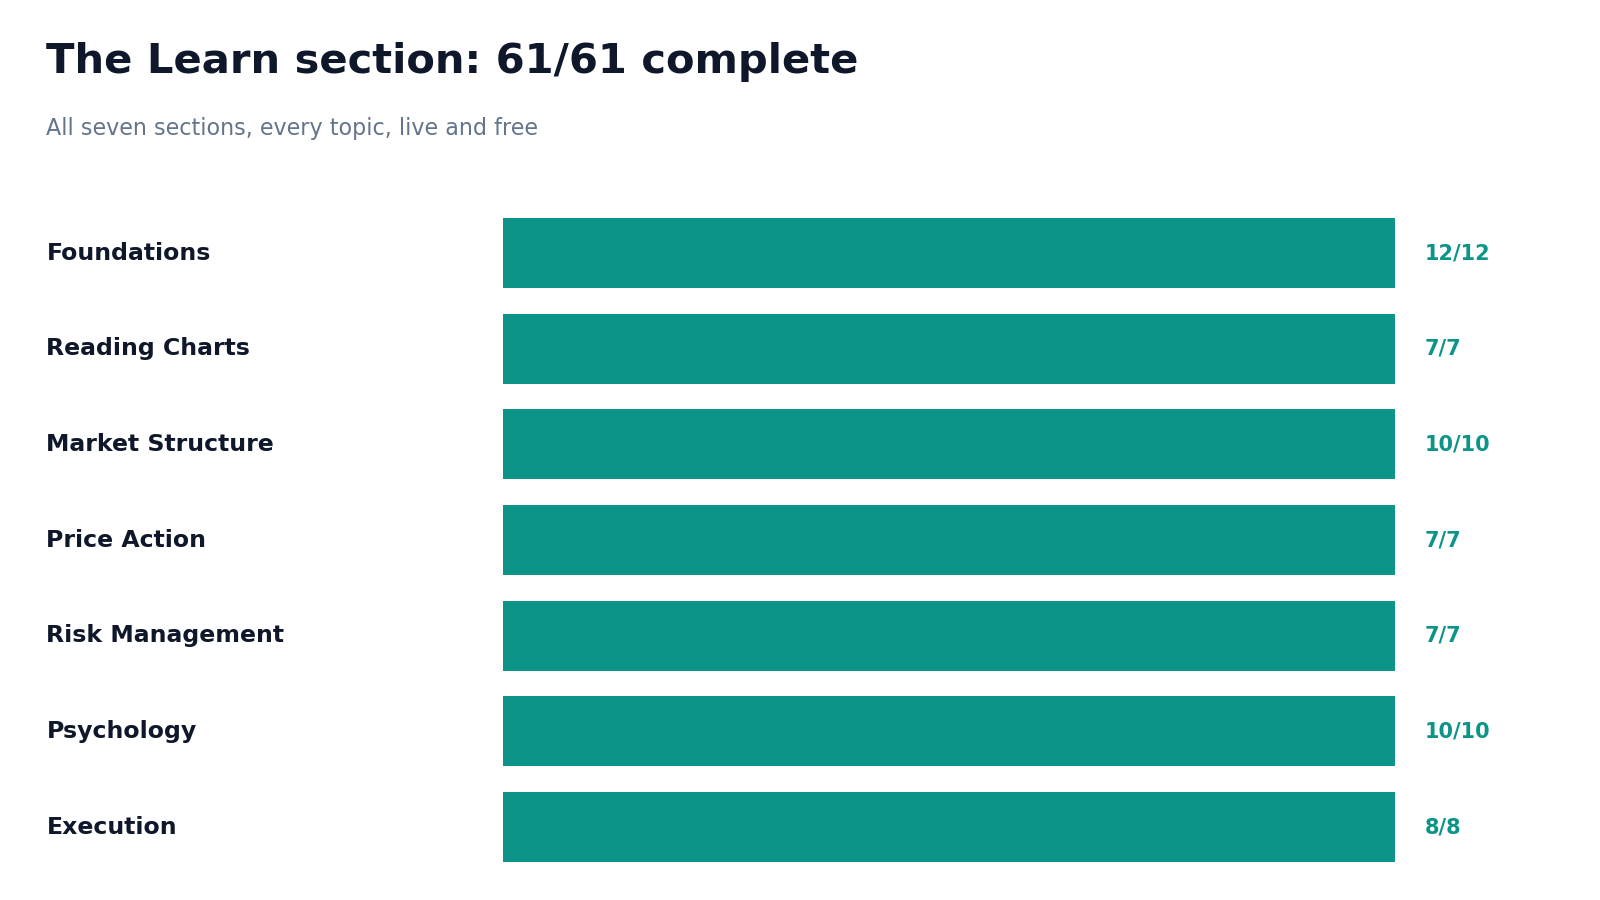
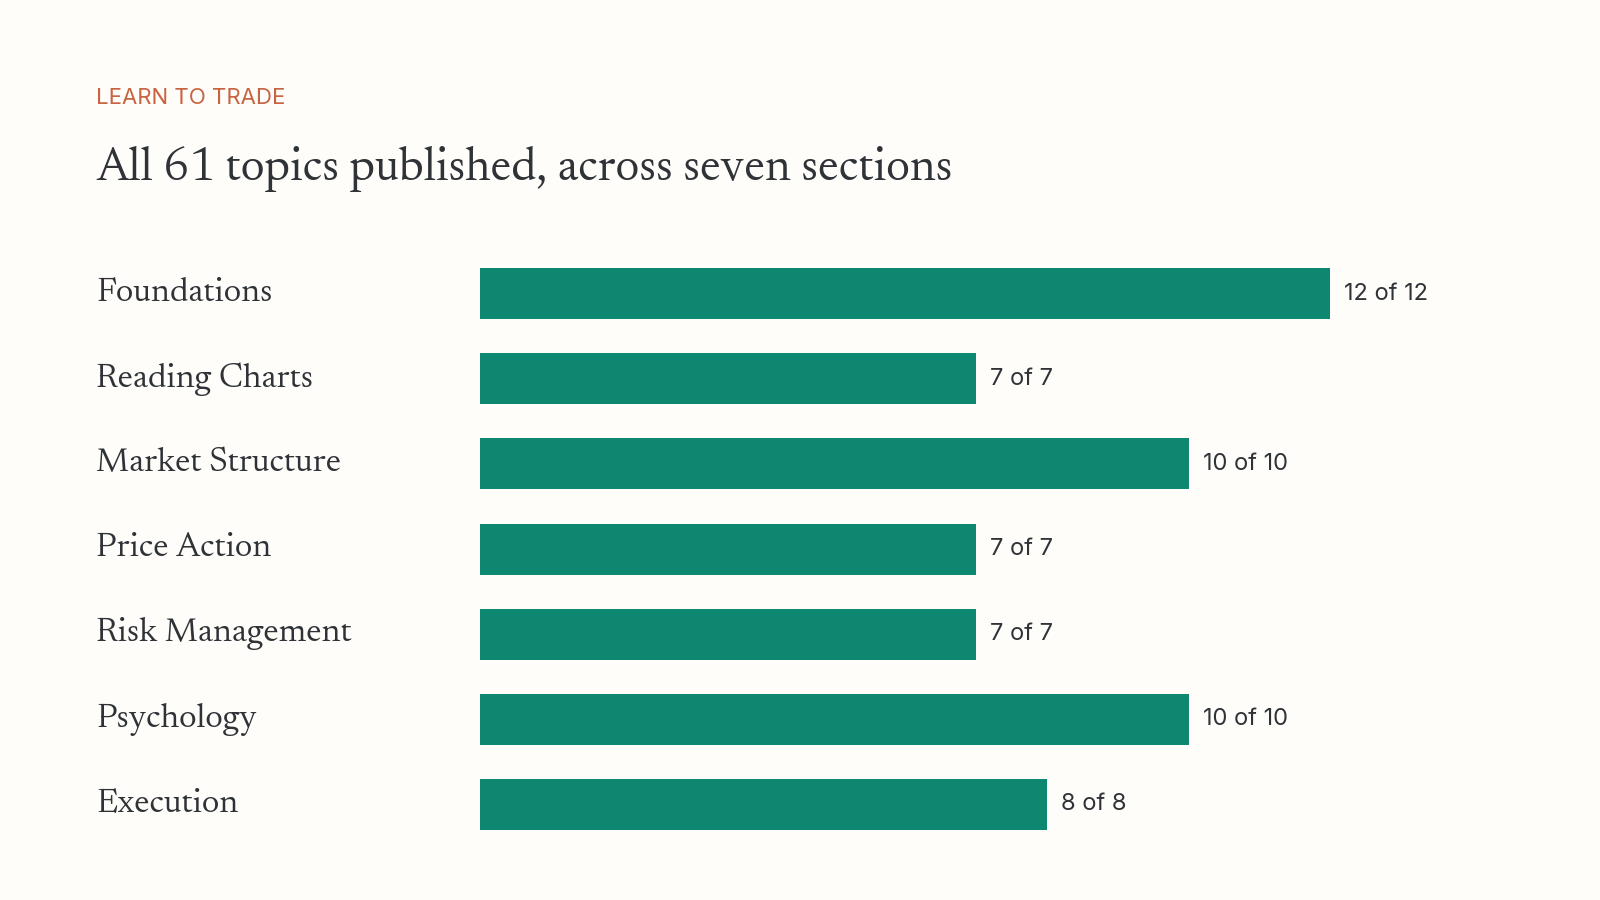
Homepage tiles: add Learn, merge Prop Firms/Brokers into Comparisons; redraw one-off charts
Six even tiles again. Trust score, loss rate, false-breakout and Learn-complete
covers redrawn in the site style; false-breakout now shows 2026 as a point against
the 2021-25 range, Learn bars sized by topic count. Blog pages 12 per page so the
3-column grid fills.

Claude-Session: https://claude.ai/code/session_01YZGGkfsqUkWWB9hW46v2Nz

diff --git a/assets/css/extended/custom.css b/assets/css/extended/custom.css
@@ -1387,6 +1387,27 @@ figure.illustration.float-right {
     color: var(--accent-strong);
 }
 
+/* Comparisons tile holds two destinations, so it isn't one link itself */
+.find-card--split:hover {
+    transform: none;
+}
+
+.find-card--split .find-more {
+    display: flex;
+    gap: 1.4rem;
+}
+
+.post-content .find-card--split .find-more a {
+    color: var(--accent);
+    text-decoration: none;
+}
+
+.post-content .find-card--split .find-more a:hover {
+    color: var(--accent-strong);
+    text-decoration: underline;
+    text-underline-offset: 3px;
+}
+
 /* Frosted/translucent so the photo band shows through - position is
    handled by the .cht-banner-fixed wrapper around it now, not here. */
 .header {

diff --git a/content/_index.md b/content/_index.md
@@ -16,10 +16,10 @@ heroTextRight:
 <p class="section-kicker">Explore</p>
 <h2 class="section-title">What you'll find here</h2>
 <div class="find-grid">
+<a class="find-card" href="/learn/"><span class="find-icon"><svg width="22" height="22" aria-hidden="true" viewBox="0 0 24 24" fill="none" stroke="currentColor" stroke-width="2" stroke-linecap="round" stroke-linejoin="round"><path d="M22 10 12 5 2 10l10 5 10-5z"/><path d="M6 12v5c3 2 9 2 12 0v-5"/></svg></span><span class="find-title">Learn</span><span class="find-desc">A free, structured course in 61 topics, from how markets work through price action, risk and trading psychology.</span><span class="find-more">Start learning →</span></a>
 <a class="find-card" href="/blog/"><span class="find-icon"><svg width="22" height="22" aria-hidden="true" viewBox="0 0 24 24" fill="none" stroke="currentColor" stroke-width="2" stroke-linecap="round" stroke-linejoin="round"><path d="M4 19.5A2.5 2.5 0 0 1 6.5 17H20"/><path d="M6.5 2H20v20H6.5A2.5 2.5 0 0 1 4 19.5v-15A2.5 2.5 0 0 1 6.5 2z"/></svg></span><span class="find-title">Blog</span><span class="find-desc">Trades worth writing about, process and mindset, weekly market notes, and a trader interview series. Not tips. Not calls.</span><span class="find-more">Read the blog →</span></a>
 <a class="find-card" href="/tools/"><span class="find-icon"><svg width="22" height="22" aria-hidden="true" viewBox="0 0 24 24" fill="none" stroke="currentColor" stroke-width="2" stroke-linecap="round" stroke-linejoin="round"><path d="M14.7 6.3a1 1 0 0 0 0 1.4l1.6 1.6a1 1 0 0 0 1.4 0l3.77-3.77a6 6 0 0 1-7.94 7.94l-6.91 6.91a2.12 2.12 0 0 1-3-3l6.91-6.91a6 6 0 0 1 7.94-7.94l-3.76 3.76z"/></svg></span><span class="find-title">Tools</span><span class="find-desc">First-hand guides to the for-exe.com tools I use in live trading. Code BARECHART gets a 3-year licence at the 1-year price.</span><span class="find-more">See the tools →</span></a>
-<a class="find-card" href="/prop-firms/compare/"><span class="find-icon"><svg width="22" height="22" aria-hidden="true" viewBox="0 0 24 24" fill="none" stroke="currentColor" stroke-width="2" stroke-linecap="round" stroke-linejoin="round"><line x1="18" y1="20" x2="18" y2="10"/><line x1="12" y1="20" x2="12" y2="4"/><line x1="6" y1="20" x2="6" y2="14"/></svg></span><span class="find-title">Prop Firms</span><span class="find-desc">Compare funded trading accounts by cost, drawdown, payout and EA/algo permission.</span><span class="find-more">Compare firms →</span></a>
-<a class="find-card" href="/brokers/compare/"><span class="find-icon"><svg width="22" height="22" aria-hidden="true" viewBox="0 0 24 24" fill="none" stroke="currentColor" stroke-width="2" stroke-linecap="round" stroke-linejoin="round"><line x1="12" y1="1" x2="12" y2="23"/><path d="M17 5H9.5a3.5 3.5 0 0 0 0 7h5a3.5 3.5 0 0 1 0 7H6"/></svg></span><span class="find-title">Brokers</span><span class="find-desc">Compare forex and CFD brokers by regulation, spreads, commission and EA/algo permission.</span><span class="find-more">Compare brokers →</span></a>
+<div class="find-card find-card--split"><span class="find-icon"><svg width="22" height="22" aria-hidden="true" viewBox="0 0 24 24" fill="none" stroke="currentColor" stroke-width="2" stroke-linecap="round" stroke-linejoin="round"><line x1="18" y1="20" x2="18" y2="10"/><line x1="12" y1="20" x2="12" y2="4"/><line x1="6" y1="20" x2="6" y2="14"/></svg></span><span class="find-title">Comparisons</span><span class="find-desc">Prop firms and forex/CFD brokers side by side, filtered by cost, drawdown, regulation, spreads and EA/algo permission.</span><span class="find-more"><a href="/prop-firms/compare/">Prop firms →</a><a href="/brokers/compare/">Brokers →</a></span></div>
 <a class="find-card" href="/journal/"><span class="find-icon"><svg width="22" height="22" aria-hidden="true" viewBox="0 0 24 24" fill="none" stroke="currentColor" stroke-width="2" stroke-linecap="round" stroke-linejoin="round"><path d="M4 19.5A2.5 2.5 0 0 1 6.5 17H20"/><path d="M6.5 2H20v20H6.5A2.5 2.5 0 0 1 4 19.5v-15A2.5 2.5 0 0 1 6.5 2z"/><line x1="10" y1="7" x2="15" y2="7"/><line x1="10" y1="11" x2="15" y2="11"/></svg></span><span class="find-title">Journal</span><span class="find-desc">The performance-journaling app behind the numbers. Log trades with their context, then see which patterns drive your results.</span><span class="find-more">Explore the journal →</span></a>
 <a class="find-card" href="/services/"><span class="find-icon"><svg width="22" height="22" aria-hidden="true" viewBox="0 0 24 24" fill="none" stroke="currentColor" stroke-width="2" stroke-linecap="round" stroke-linejoin="round"><polyline points="16 18 22 12 16 6"/><polyline points="8 6 2 12 8 18"/></svg></span><span class="find-title">Services</span><span class="find-desc">Custom MT5 development: EAs, performance dashboards and prop firm compliance tools built around your rules.</span><span class="find-more">Work with me →</span></a>
 </div>

diff --git a/content/blog/2026-08-21-false-breakout-rate-2026/index.md b/content/blog/2026-08-21-false-breakout-rate-2026/index.md
@@ -5,7 +5,7 @@ draft: false
 description: "GER40 and Nasdaq are posting their highest false-breakout rates on record this year, which helps explain why breakout setups have felt harder to trust, and why waiting for a genuine rejection has been paying off more than usual."
 cover:
   image: "false-breakout-rate-2026.png"
-  alt: "Bar chart comparing 2026 false-breakout rate against the 2021-2025 range for GER40 and Nasdaq, both at record highs in 2026"
+  alt: "Chart comparing the 2026 false-breakout rate with the 2021-2025 range: GER40 61.3% against 46.9-54.8%, Nasdaq 57.6% against 44.9-54.0%, both the highest on record"
   caption: "GER40 and Nasdaq are both posting the highest false-breakout rate of the whole measured period in 2026"
 categories: ["Guides"]
 tags: ["breakouts", "false breakouts", "GER40", "Nasdaq", "price action"]
